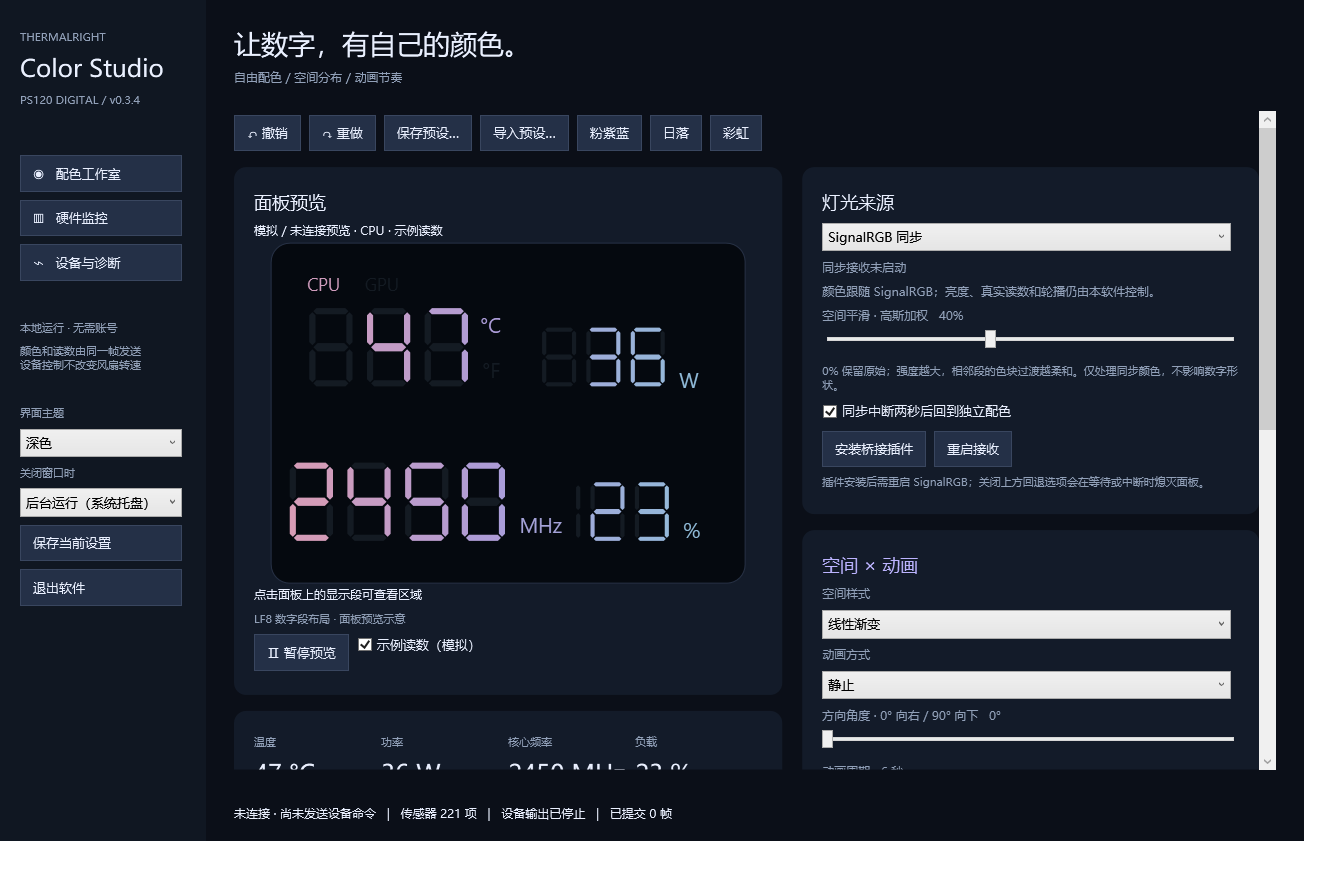
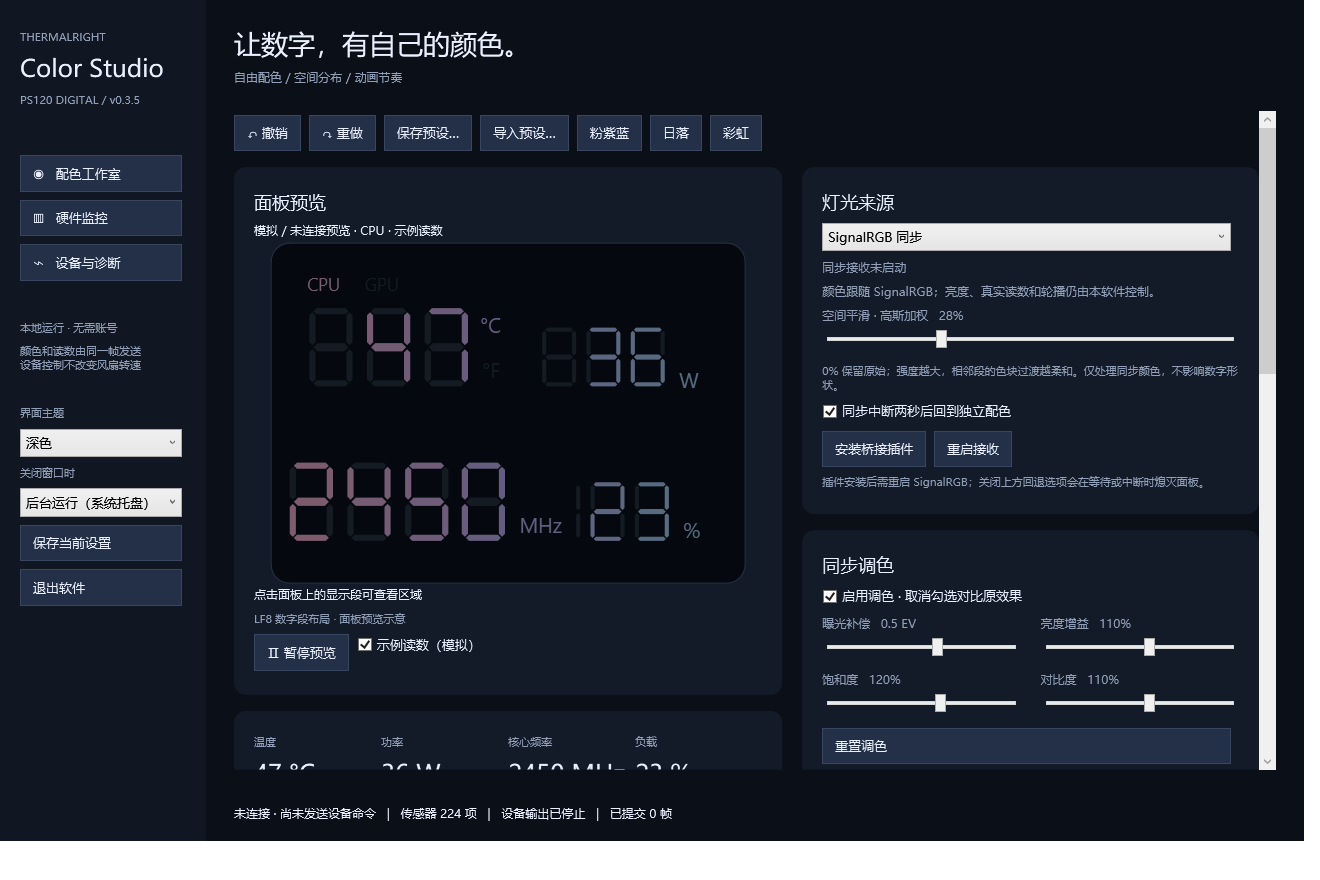
Add SignalRGB exposure, brightness, saturation and contrast controls

diff --git a/src/ThermalrightColorStudio/MainWindow.cs b/src/ThermalrightColorStudio/MainWindow.cs
@@ -43,7 +43,7 @@ public sealed class MainWindow : Window
         StudioTheme.Apply(settings.LightTheme); ApplyStyles();
         var root = new Grid(); root.ColumnDefinitions.Add(new() { Width = new GridLength(206) }); root.ColumnDefinitions.Add(new()); Content = root;
         var side = new StackPanel { Margin = new Thickness(20, 26, 16, 20) }; root.Children.Add(new Border { Background = StudioTheme.Sidebar, Child = side });
-        side.Children.Add(Text("THERMALRIGHT", 11, Muted)); side.Children.Add(Text("Color Studio", 24)); side.Children.Add(Text("PS120 DIGITAL / v0.3.4", 11, Muted));
+        side.Children.Add(Text("THERMALRIGHT", 11, Muted)); side.Children.Add(Text("Color Studio", 24)); side.Children.Add(Text("PS120 DIGITAL / v0.3.5", 11, Muted));
         side.Children.Add(new Border { Height = 40 });
         side.Children.Add(Btn("◉   配色工作室", () => ShowPage("colors")));
         side.Children.Add(Btn("▥   硬件监控", () => ShowPage("monitor")));
@@ -151,6 +151,26 @@ public sealed class MainWindow : Window
             sync.Children.Add(Text("插件安装后需重启 SignalRGB；关闭上方回退选项会在等待或中断时熄灭面板。", 11, Muted));
         }
         right.Children.Add(Card(sync));
+        if (settings.SignalRgbSync)
+        {
+            var filters = new StackPanel(); filters.Children.Add(Text("同步调色", 18));
+            filters.Children.Add(Check("启用调色 · 取消勾选对比原效果", settings.SignalRgbFiltersEnabled, v => Change(() => settings.SignalRgbFiltersEnabled = v)));
+            var grid = new Grid(); grid.ColumnDefinitions.Add(new()); grid.ColumnDefinitions.Add(new());
+            grid.RowDefinitions.Add(new()); grid.RowDefinitions.Add(new());
+            void FilterField(UIElement field, int column, int row)
+            {
+                if (field is FrameworkElement element) element.Margin = new Thickness(column == 1 ? 10 : 0, 0, column == 0 ? 10 : 0, 0);
+                Grid.SetColumn(field, column); Grid.SetRow(field, row); grid.Children.Add(field);
+            }
+            FilterField(SliderField("曝光补偿", settings.SignalRgbExposure, -3, 3, " EV", v => settings.SignalRgbExposure = v), 0, 0);
+            FilterField(SliderField("亮度增益", settings.SignalRgbBrightness, 0, 200, "%", v => settings.SignalRgbBrightness = v), 1, 0);
+            FilterField(SliderField("饱和度", settings.SignalRgbSaturation, 0, 200, "%", v => settings.SignalRgbSaturation = v), 0, 1);
+            FilterField(SliderField("对比度", settings.SignalRgbContrast, 0, 200, "%", v => settings.SignalRgbContrast = v), 1, 1);
+            filters.Children.Add(grid);
+            filters.Children.Add(Btn("重置调色", () => Change(() => { settings.SignalRgbFiltersEnabled = true; settings.SignalRgbExposure = 0; settings.SignalRgbBrightness = settings.SignalRgbSaturation = settings.SignalRgbContrast = 100; }, true)));
+            filters.Children.Add(Text("平滑后调色，再应用整体亮度。纯黑保持熄灭；参数过高会让亮部变白。重置不改变平滑强度。", 11, Muted));
+            right.Children.Add(Card(filters));
+        }
         var effects = new StackPanel(); effects.Children.Add(Text("空间 × 动画", 18, Accent)); effects.Children.Add(Text("空间样式", 12, Muted));
         effects.Children.Add(Combo(["线性渐变", "径向渐变", "镜像渐变", "环绕渐变", "条纹拼色", "区域拼色", "单色常亮"], (int)settings.Pattern, i => Change(() => settings.Pattern = (Pattern)i, true)));
         effects.Children.Add(Text("动画方式", 12, Muted)); effects.Children.Add(Combo(["静止", "循环流动", "来回流动", "整体颜色过渡", "呼吸", "扫光", "波纹", "温度联动", "负载联动"], (int)settings.Motion, i => Change(() => settings.Motion = (Motion)i, true)));
@@ -309,7 +329,7 @@ public sealed class MainWindow : Window
     {
         streaming = true; previousOutput = null; settings.Simulated = false; if (streamButton is not null) streamButton.Content = "■ 停止实时输出"; notice.Text = "实时输出已开始。关闭窗口可按左侧选项继续后台运行。";
     }
-    object Diagnostic() => new { Version = "0.3.4", Time = DateTimeOffset.Now, OS = Environment.OSVersion.ToString(), Hid = HidService.Enumerate(), hid.Pm, hid.Sub, hid.Status, hid.RawHandshake, Sensors = sensors.Snapshot, SensorError = sensors.Error, sensors.DriverStatus, FramesSent = frames, SignalRgb = new { Status = BridgeStatus(), Received = signalBridge?.Received, Rejected = signalBridge?.Rejected }, TrccRunning = HidService.TrccRunning };
+    object Diagnostic() => new { Version = "0.3.5", Time = DateTimeOffset.Now, OS = Environment.OSVersion.ToString(), Hid = HidService.Enumerate(), hid.Pm, hid.Sub, hid.Status, hid.RawHandshake, Sensors = sensors.Snapshot, SensorError = sensors.Error, sensors.DriverStatus, FramesSent = frames, SignalRgb = new { Status = BridgeStatus(), Received = signalBridge?.Received, Rejected = signalBridge?.Rejected }, TrccRunning = HidService.TrccRunning };
     void ExportDiagnostic() { var d = new SaveFileDialog { Filter = "诊断 JSON (*.json)|*.json", FileName = "Thermalright-diagnostic.json" }; if (d.ShowDialog(this) == true) { File.WriteAllText(d.FileName, JsonSerializer.Serialize(Diagnostic(), SettingsStore.Json)); notice.Text = "诊断已导出，包含设备路径和传感器 ID。"; } }
     void UpdateDiagnostic() { if (diagnosticText is not null) diagnosticText.Text = $"状态：{hid.Status}\n设备路径：{hid.DevicePath}\nPM={hid.Pm} SUB={hid.Sub}\n原始握手：{hid.RawHandshake}\n传感器：{sensors.Snapshot.Length} 项\n传感器错误：{sensors.Error}\n固件可能每次上电只响应一次握手；无有效响应时停止，不猜测型号。\n"; }
     void Tick(object? sender, EventArgs e)

diff --git a/src/ThermalrightColorStudio/SelfTests.cs b/src/ThermalrightColorStudio/SelfTests.cs
@@ -66,6 +66,43 @@ public static class SelfTests
         Check("旧配置不自动改变同步色彩", migrated.SignalRgbSmoothing == 0);
         var smoothSettings = SettingsStore.Deserialize("{\"SignalRgbSmoothing\":150}");
         Check("平滑参数限定范围且可保存", smoothSettings.SignalRgbSmoothing == 100 && SettingsStore.Deserialize(SettingsStore.Serialize(smoothSettings)).SignalRgbSmoothing == 100);
+        var grading = new StudioSettings();
+        Check("同步调色默认精确保留原始帧", SignalColorFilters.Apply(colors, grading).SequenceEqual(colors));
+        grading.SignalRgbExposure = 2; grading.SignalRgbFiltersEnabled = false;
+        Check("调色旁路保留参数但不改变颜色", SignalColorFilters.Apply(colors, grading).SequenceEqual(colors) && grading.SignalRgbExposure == 2);
+        grading = new StudioSettings { SignalRgbExposure = 1 };
+        var exposed = SignalColorFilters.Apply([new Rgb(128,128,128)], grading)[0];
+        Check("正一档曝光提升线性光亮度", exposed.R is >= 175 and <= 176 && exposed.R == exposed.G && exposed.G == exposed.B);
+        grading = new StudioSettings { SignalRgbBrightness = 200 };
+        Check("亮度增益提升颜色", SignalColorFilters.Apply([new Rgb(64,32,16)], grading)[0] == new Rgb(128,64,32));
+        grading = new StudioSettings { SignalRgbSaturation = 0 };
+        var gray = SignalColorFilters.Apply([new Rgb(255,0,0)], grading)[0];
+        Check("零饱和度转为等通道灰色", gray == new Rgb(54,54,54));
+        grading.SignalRgbSaturation = 200;
+        var saturated = SignalColorFilters.Apply([new Rgb(100,120,140)], grading)[0];
+        Check("提高饱和度扩大颜色差异", saturated.B - saturated.R > 40);
+        grading = new StudioSettings { SignalRgbContrast = 200 };
+        var contrasted = SignalColorFilters.Apply([new Rgb(64,128,192)], grading)[0];
+        Check("提高对比度拉开明暗", contrasted.R <= 1 && contrasted.G is >= 128 and <= 129 && contrasted.B == 255);
+        grading = new StudioSettings { SignalRgbExposure = 3, SignalRgbContrast = 0, SignalRgbBrightness = 200 };
+        Check("调色保持纯黑区域熄灭", SignalColorFilters.Apply([default], grading)[0] == default);
+        grading.SignalRgbBrightness = 0;
+        Check("零亮度增益熄灭所有颜色", SignalColorFilters.Apply(colors, grading).All(c => c == default));
+        grading = new StudioSettings { SignalRgbExposure = 3, SignalRgbBrightness = 200 };
+        Check("调色过曝截断且不回绕", SignalColorFilters.Apply([new Rgb(200,200,200)], grading)[0] == new Rgb(255,255,255));
+        var filterInput = colors.ToArray(); _ = SignalColorFilters.Apply(colors, grading);
+        Check("同步调色不修改接收原始帧", colors.SequenceEqual(filterInput));
+        grading.SignalRgbSmoothing = 40; grading.Brightness = 50;
+        var gradedFrame = SignalBridge.MaskFrame(step, grading, new(45,90,4500,50), "CPU");
+        var gradeExpected = SignalColorFilters.Apply(SignalColorSmoothing.Apply(step, 40), grading);
+        Check("同步调色在平滑后且保留掩码和整体亮度", Enumerable.Range(0,93).All(i => gradedFrame[i] == (expectedMask[i] ? gradeExpected[i].Scale(.5) : default)));
+        Check("旧配置迁移保持中性调色", migrated.SignalRgbFiltersEnabled && migrated.SignalRgbExposure == 0 && migrated.SignalRgbBrightness == 100 && migrated.SignalRgbSaturation == 100 && migrated.SignalRgbContrast == 100);
+        var gradeSaved = SettingsStore.Deserialize(SettingsStore.Serialize(grading));
+        Check("调色参数配置往返", gradeSaved.SignalRgbExposure == 3 && gradeSaved.SignalRgbBrightness == 200 && gradeSaved.SignalRgbSmoothing == 40);
+        var gradeLimits = SettingsStore.Deserialize("{\"SignalRgbExposure\":99,\"SignalRgbBrightness\":-1,\"SignalRgbSaturation\":300,\"SignalRgbContrast\":-5}");
+        Check("调色参数限定安全范围", gradeLimits.SignalRgbExposure == 3 && gradeLimits.SignalRgbBrightness == 0 && gradeLimits.SignalRgbSaturation == 200 && gradeLimits.SignalRgbContrast == 0);
+        bool badGrade = false; try { new StudioSettings { SignalRgbExposure = double.NaN }.Validate(); } catch (InvalidDataException) { badGrade = true; }
+        Check("拒绝无效调色数值", badGrade);
         return string.Join(Environment.NewLine, passed) + $"\n{passed.Count} checks passed.\n";
     }
 }

diff --git a/src/ThermalrightColorStudio/Model.cs b/src/ThermalrightColorStudio/Model.cs
@@ -35,6 +35,11 @@ public sealed class StudioSettings
     public bool SignalRgbSync { get; set; }
     public bool SignalRgbFallback { get; set; } = true;
     public double SignalRgbSmoothing { get; set; }
+    public bool SignalRgbFiltersEnabled { get; set; } = true;
+    public double SignalRgbExposure { get; set; }
+    public double SignalRgbBrightness { get; set; } = 100;
+    public double SignalRgbSaturation { get; set; } = 100;
+    public double SignalRgbContrast { get; set; } = 100;
     public bool ReadMotherboard { get; set; }
     public double LinkLow { get; set; } = 30;
     public double LinkHigh { get; set; } = 90;
@@ -45,8 +50,12 @@ public sealed class StudioSettings
         if (SchemaVersion != 1) throw new InvalidDataException("不支持此配置版本。");
         if (Palette is null || Palette.Count is < 1 or > 16 || Palette.Any(s => s is null || !Rgb.TryParse(s.Hex, out _) || !double.IsFinite(s.Position) || s.Position is < 0 or > 1)) throw new InvalidDataException("色板需要 1–16 个有效 HEX 色标，位置为 0–1。");
         if (!Enum.IsDefined(Pattern) || !Enum.IsDefined(Motion)) throw new InvalidDataException("未知效果类型。");
-        foreach (var x in new[] { Angle, Brightness, Period, CenterX, CenterY, Repeats, RotateSeconds, LinkLow, LinkHigh, SignalRgbSmoothing }) if (!double.IsFinite(x)) throw new InvalidDataException("配置数值无效。");
+        foreach (var x in new[] { Angle, Brightness, Period, CenterX, CenterY, Repeats, RotateSeconds, LinkLow, LinkHigh, SignalRgbSmoothing, SignalRgbExposure, SignalRgbBrightness, SignalRgbSaturation, SignalRgbContrast }) if (!double.IsFinite(x)) throw new InvalidDataException("配置数值无效。");
         SignalRgbSmoothing = Math.Clamp(SignalRgbSmoothing, 0, 100);
+        SignalRgbExposure = Math.Clamp(SignalRgbExposure, -3, 3);
+        SignalRgbBrightness = Math.Clamp(SignalRgbBrightness, 0, 200);
+        SignalRgbSaturation = Math.Clamp(SignalRgbSaturation, 0, 200);
+        SignalRgbContrast = Math.Clamp(SignalRgbContrast, 0, 200);
         Brightness = Math.Clamp(Brightness, 0, 100); Period = Math.Clamp(Period, .5, 60);
         Angle = ((Angle % 360) + 360) % 360; CenterX = Math.Clamp(CenterX, 0, 1); CenterY = Math.Clamp(CenterY, 0, 1);
         Repeats = Math.Clamp(Repeats, 1, 12); RotateSeconds = Math.Clamp(RotateSeconds, 1, 60);

diff --git a/src/ThermalrightColorStudio/SignalColorFilters.cs b/src/ThermalrightColorStudio/SignalColorFilters.cs
@@ -1,0 +1,33 @@
+namespace ThermalrightColorStudio;
+
+public static class SignalColorFilters
+{
+    public static Rgb[] Apply(Rgb[] colors, StudioSettings settings)
+    {
+        if (!settings.SignalRgbFiltersEnabled || IsNeutral(settings)) return colors;
+        var output = new Rgb[colors.Length];
+        double exposure = System.Math.Pow(2, settings.SignalRgbExposure);
+        double saturation = settings.SignalRgbSaturation / 100;
+        double contrast = settings.SignalRgbContrast / 100;
+        double brightness = settings.SignalRgbBrightness / 100;
+        for (int i = 0; i < colors.Length; i++)
+        {
+            var color = colors[i];
+            // Preserve intentional black/off regions even with reduced contrast.
+            if (color == default) continue;
+            double r = ToSrgb(ToLinear(color.R / 255.0) * exposure);
+            double g = ToSrgb(ToLinear(color.G / 255.0) * exposure);
+            double b = ToSrgb(ToLinear(color.B / 255.0) * exposure);
+            double luminance = .2126 * r + .7152 * g + .0722 * b;
+            byte Channel(double value) => ToByte(((luminance + (value - luminance) * saturation - .5) * contrast + .5) * brightness);
+            // Clip only after all adjustments; never overwrite the received frame.
+            output[i] = new(Channel(r), Channel(g), Channel(b));
+        }
+        return output;
+    }
+
+    static bool IsNeutral(StudioSettings s) => s.SignalRgbExposure == 0 && s.SignalRgbSaturation == 100 && s.SignalRgbContrast == 100 && s.SignalRgbBrightness == 100;
+    static double ToLinear(double value) => value <= .04045 ? value / 12.92 : System.Math.Pow((value + .055) / 1.055, 2.4);
+    static double ToSrgb(double value) => value <= .0031308 ? value * 12.92 : 1.055 * System.Math.Pow(value, 1 / 2.4) - .055;
+    static byte ToByte(double value) => (byte)System.Math.Clamp(System.Math.Round(value * 255), 0, 255);
+}

diff --git a/src/ThermalrightColorStudio/SignalBridge.cs b/src/ThermalrightColorStudio/SignalBridge.cs
@@ -85,6 +85,7 @@ public sealed class SignalBridge : IDisposable
         var mask = PanelLayout.Mask(metrics, source, settings.Fahrenheit); var output = new Rgb[93];
         if (!settings.Enabled) return output;
         colors = SignalColorSmoothing.Apply(colors, settings.SignalRgbSmoothing);
+        colors = SignalColorFilters.Apply(colors, settings);
         for (int i = 0; i < 93; i++) if (mask[i]) output[i] = colors[i].Scale(settings.Brightness / 100); return output;
     }
     public static string InstallPlugin()

diff --git a/README.md b/README.md
@@ -2,7 +2,7 @@
 
 为 **Thermalright PS120 DIGITAL / LF8 面板**制作的 Windows 配色与监控工具。
 
-[English](README.en.md) · [下载 0.3.4](https://github.com/febtsuki/thermalright-color-studio/releases/latest) · [SignalRGB 接入](docs/SignalRGB.md)
+[English](README.en.md) · [下载 0.3.5](https://github.com/febtsuki/thermalright-color-studio/releases/latest) · [SignalRGB 接入](docs/SignalRGB.md)
 
 ![Color Studio 界面，数字为模拟示例](docs/screenshots/studio.png)
 
@@ -17,6 +17,7 @@
 - 启动自动连接、关闭转入托盘、设置保存、预设导入导出、撤销/重做。
 - **SignalRGB 全局灯效同步**，保留本软件生成的真实数字；数据中断时可回到独立配色。
 - **0–100% 空间高斯平滑**，柔化 SignalRGB 色块之间的生硬过渡。
+- **同步调色滤镜**：曝光、亮度增益、饱和度、对比度，带旁路开关与一键重置。
 - 可选登录自启动，无需每次手动启动脚本。
 
 ## 已验证的环境
@@ -32,7 +33,7 @@
 
 ## 使用
 
-1. 从 [Releases](https://github.com/febtsuki/thermalright-color-studio/releases) 下载 `thermalright-color-studio-v0.3.4-win-x64.zip` 并解压到可写目录。
+1. 从 [Releases](https://github.com/febtsuki/thermalright-color-studio/releases) 下载 `thermalright-color-studio-v0.3.5-win-x64.zip` 并解压到可写目录。
 2. 完全退出原版 TRCC，包括系统托盘，避免同时写入 USB 面板。
 3. 双击 `ThermalrightColorStudio.exe`。程序会请求管理员权限，用于读取底层传感器；.NET 运行库已包含。
 4. CPU 底层传感器还需要单独安装官方 [PawnIO 2.2.0](https://github.com/namazso/PawnIO.Setup/releases/tag/2.2.0)。本包不包含或自动安装驱动。
@@ -45,6 +46,8 @@
 请参阅 [接入说明](docs/SignalRGB.md)。两款软件需要同时运行；Color Studio 独占 USB，SignalRGB 通过本机回环网络发送颜色。
 
 在“灯光来源”选择 SignalRGB 同步，调节“空间平滑”。**0% 保留原色，40% 可作为初次对比值**。强度越高，颜色越柔和，也会减少局部反差。平滑发生在生成数字之前，不会模糊数字形状。每个实体段仍只能显示一种颜色。
+
+“同步调色”提供曝光 ±3 EV、亮度增益/饱和度/对比度 0–200%。它在平滑后处理颜色，可补偿平滑后的亮度与色彩反差。默认曝光 0、其他 100%，保留原效果；取消“启用调色”可旁路对比。纯黑保持熄灭，重置只还原调色，不改变平滑。整体亮度仍在最后控制输出。
 
 ### 登录自启动
 
@@ -64,7 +67,7 @@ powershell -NoProfile -ExecutionPolicy Bypass -File ./Manage-Autostart.ps1
 ./build.ps1
 ```
 
-输出在 `publish/`。NuGet 依赖由 `packages.lock.json` 锁定。运行不涉及硬件的 40 项检查：
+输出在 `publish/`。NuGet 依赖由 `packages.lock.json` 锁定。运行不涉及硬件的 56 项检查：
 
 ```powershell
 dotnet ./src/ThermalrightColorStudio/bin/Release/net10.0-windows/win-x64/ThermalrightColorStudio.dll --self-test ./test-results.txt

diff --git a/docs/Validation.md b/docs/Validation.md
@@ -2,9 +2,11 @@
 
 ## Automated
 
-40 self-test checks cover effect geometry and loops, masks and overflow, HID encoding, color conversion, settings migration, the SignalRGB packet format and Gaussian spatial filtering. Spatial tests check constant colors, zero-strength passthrough, input immutability, softening a local discontinuity, intermediate colors at a boundary, filtering before masks/brightness, disabled output and configuration compatibility.
+56 self-test checks cover effect geometry and loops, masks and overflow, HID encoding, color conversion, settings migration, the SignalRGB packet format and Gaussian spatial filtering. Spatial tests check constant colors, zero-strength passthrough, input immutability, softening a local discontinuity, intermediate colors at a boundary, filtering before masks/brightness, disabled output and configuration compatibility.
 
 WPF offscreen checks exercise page navigation, palette operations, undo/redo, light/dark themes and HSV picker rendering/hit testing. An optional Qt 6.8.1 harness imports the actual JS module and QML with mocked SignalRGB APIs, validates controller announcement, token refresh without re-announcement, 93 LED positions and 304-byte packets.
+
+The 0.3.5 checks additionally cover neutral and bypass equivalence, exposure response, brightness gain, grayscale and saturation behavior, contrast, intentional black preservation, zero gain, clipping, input immutability, processing order, masks, settings migration and numeric validation.
 
 ## Hardware observations
 
@@ -13,6 +15,8 @@ On the validated PS120 DIGITAL / LF8 panel, a user visually confirmed correctly 
 With SignalRGB 2.5.74, global effects, real numeric readings and source rotation were confirmed. Restarting the receiver while SignalRGB remained running restored synchronization without a persistent duplicate stream. A five-second sample observed 151 received frames and zero additional rejects after initial old-session packets were rejected.
 
 For 0.3.4, the user compared 0% and 40% spatial smoothing and confirmed softer transitions with normal display behavior. A separate five-second sample observed 149 received frames and zero additional rejects. The sign-in task was registered and manually triggered successfully; actual boot/login behavior still depends on the local environment.
+
+For 0.3.5, the user confirmed exposure/saturation/contrast adjustments took effect with normal display behavior. A five-second live sample observed 150 received frames with zero additional rejects. All 56 local checks and light/dark WPF rendering checks passed.
 
 ## Not yet established
 

diff --git a/docs/SignalRGB.md b/docs/SignalRGB.md
@@ -19,6 +19,16 @@ The option **同步中断两秒后回到独立配色** enables fallback to the s
 
 Filtering precedes numeric masks and brightness, so unlit digit segments do not artificially darken adjacent samples. It does not add temporal interpolation. Independent effects and fallback effects are unaffected.
 
+## Color grading (0.3.5)
+
+The **同步调色** card provides exposure compensation (-3 to +3 EV), brightness gain (0–200%), saturation (0–200%) and contrast (0–200%). Default values are 0 EV and 100% for the remaining controls. These defaults, or disabling grading, preserve input colors exactly. The reset button restores these values and enables grading without changing smoothing.
+
+Processing order: received colors → spatial smoothing → exposure → saturation → contrast → brightness gain → channel clipping → numeric mask → overall display brightness. Exposure uses sRGB transfer functions to apply `2^EV` in linear light; the remaining controls operate on the encoded RGB values. This is a practical color adjustment model, not a calibration of the panel's LEDs.
+
+Saturation mixes channels around a weighted grayscale value. Contrast pivots encoded channels around 0.5. Brightness gain scales the resulting RGB channels. Values are clipped to the existing RGB output range, so excessive gains can flatten highlights into white. Exact black input remains off, including at reduced contrast. Global brightness and the existing hardware channel scaling remain in place.
+
+Settings participate in save/load, presets and undo/redo. Grading affects fresh SignalRGB frames only; independent and fallback effects are unchanged. No plugin update is needed for this feature.
+
 ## Local protocol
 
 Discovery: HTTP GET `127.0.0.1:18742/info` returns protocol version 1, 93 LEDs, UDP port 18743 and a receiver-session token. GET `/status` reports received/rejected counts and freshness without exposing that token.

diff --git a/README.en.md b/README.en.md
@@ -12,7 +12,7 @@ This independent GPL-3.0 project is not affiliated with Thermalright or SignalRG
 
 Custom 1–16 color palettes, arbitrary-angle gradients, radial/mirrored/conic effects, stripes, per-metric zones, animation and temperature/load effects. Includes an HSV wheel with a saturation/value square, HEX/RGB editing, light/dark themes, presets, undo/redo and tray operation.
 
-Displays real CPU/GPU temperature, power, clock and load, with source rotation and Celsius/Fahrenheit support. SignalRGB integration forwards global lighting while Color Studio retains real numeric masks. Adjustable spatial Gaussian smoothing softens abrupt color transitions between segments.
+Displays real CPU/GPU temperature, power, clock and load, with source rotation and Celsius/Fahrenheit support. SignalRGB integration forwards global lighting while Color Studio retains real numeric masks. Adjustable spatial Gaussian smoothing softens abrupt color transitions between segments. Post-smoothing exposure, brightness gain, saturation and contrast controls provide local color grading with a bypass switch and reset. Neutral defaults preserve existing colors.
 
 ## Run
 
@@ -33,7 +33,7 @@ Use Windows x64 and .NET SDK 10.0.401:
 dotnet ./src/ThermalrightColorStudio/bin/Release/net10.0-windows/win-x64/ThermalrightColorStudio.dll --self-test ./test-results.txt
 ```
 
-The portable app is produced in `publish/`. There are 40 automated checks; see [validation](docs/Validation.md) for their scope and actual hardware observations. Dependencies are locked in `packages.lock.json`.
+The portable app is produced in `publish/`. There are 56 automated checks; see [validation](docs/Validation.md) for their scope and actual hardware observations. Dependencies are locked in `packages.lock.json`.
 
 ## Credits
 

diff --git a/tests/README.md b/tests/README.md
@@ -10,3 +10,5 @@
 可选 Qt 插件检查：安装 PySide6-Essentials==6.8.1 后运行 `python tests/signalrgb-qt.py`。这会检查实际 JS/QML 加载、控制器公告与 93 段协议；使用模拟的 SignalRGB API，不替代宿主实测。
 
 0.3.4：增加 9 项空间平滑检查，共 40 项。验证均匀颜色不变、0 强度保留原始颜色、不修改输入帧、局部空间突变柔化和远处不受小范围影响、阶跃色块产生中间色、掩码和亮度顺序、关闭输出、旧配置默认关闭、参数保存与范围。
+
+0.3.5：增加 16 项同步调色行为检查，总计 56 项。覆盖中性/旁路、曝光、亮度、饱和度与灰度、对比度、纯黑熄灭、零增益、截断、输入帧不变、处理顺序、数字掩码、配置迁移与数值验证。

diff --git a/CHANGELOG.md b/CHANGELOG.md
@@ -1,5 +1,12 @@
 # Changelog
 
+## 0.3.5 — SignalRGB color grading
+
+- Added exposure compensation, brightness gain, saturation and contrast after spatial smoothing.
+- Added grading bypass and reset, with neutral migration defaults and preserved black/off regions.
+- Preview and hardware output share the same processing pipeline; standalone effects are unchanged.
+- Added 16 behavioral checks, bringing the total to 56.
+
 ## 0.3.4 — First public preview
 
 - Custom palettes, spatial effects and animations for the LF8 93-segment panel.
